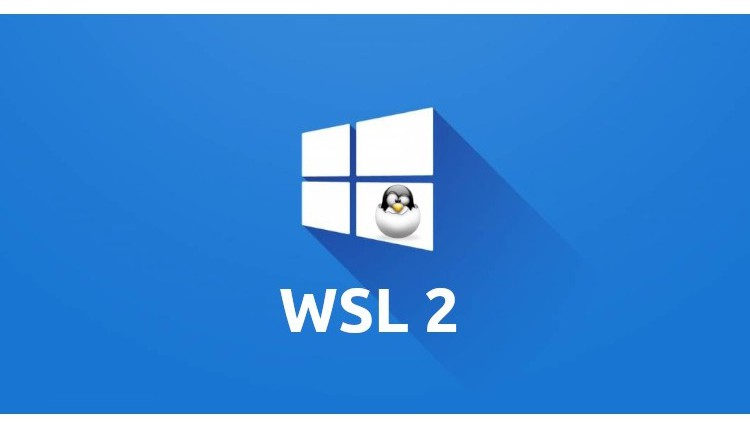
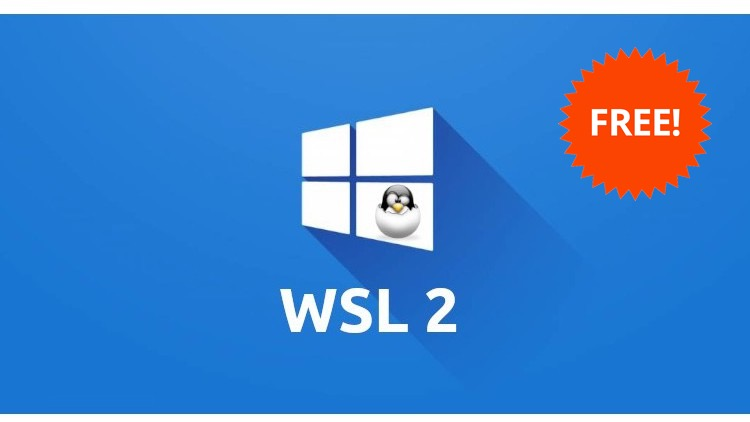
Update wsl image and cost

Changed region(s): [[0.736, 0.0924, 0.9507, 0.4929]]

diff --git a/index.html b/index.html
@@ -349,7 +349,7 @@
 			<h2>WSL en menos de 2 horas</h2>
 			<p>Sumérgete en el fascinante mundo de Windows Subsystem for Linux! y domina esta herramienta GRATIS</p>
             <a href="https://www.udemy.com/course/wsl2-mestria-en-2-horas/?referralCode=45612E673C8C05147989" target="_blank">
-            <div class="course-footer">PROMOCIÓN - 12,99 US$</div></a>
+            <div class="course-footer">PROMOCIÓN - 00,00 US$</div></a>
 
 		</div>
         <div class="course">
